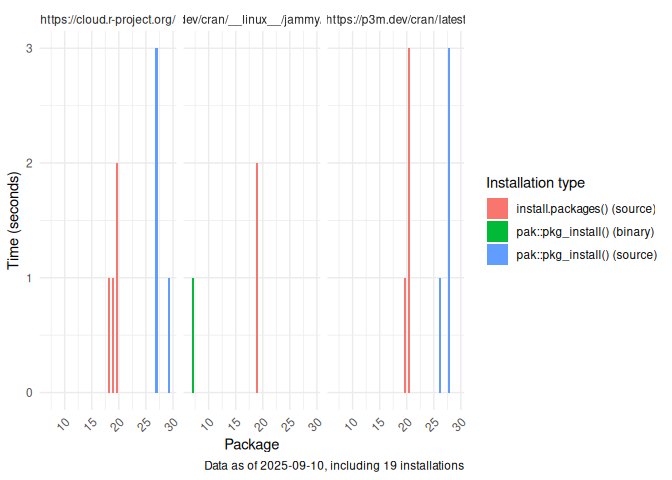
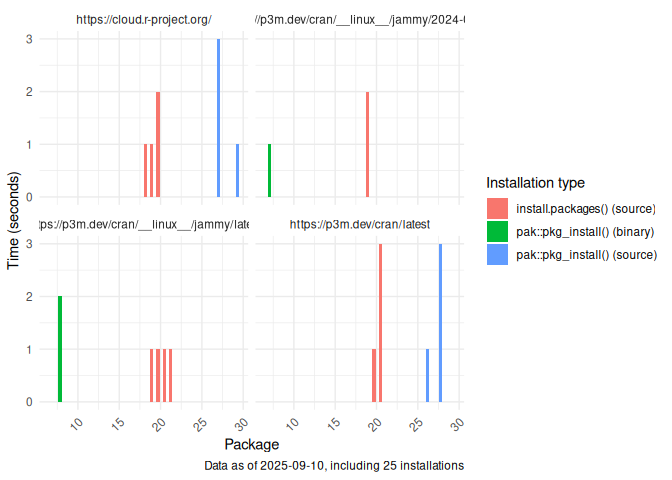
Add package installation summary

diff --git a/README.md b/README.md
@@ -15,21 +15,21 @@ and saves the output as csv files under [data](./data).
 
 The following table shows the distribution of the installations so far:
 
-|                                                 | binary |
-|:------------------------------------------------|-------:|
-| https://cloud.r-project.org/                    |     24 |
-| https://p3m.dev/cran/**linux**/jammy/2024-03-31 |      6 |
-| https://p3m.dev/cran/**linux**/jammy/latest     |     12 |
-| https://p3m.dev/cran/latest                     |     24 |
+|                                                 | binary | source |
+|:------------------------------------------------|-------:|-------:|
+| https://cloud.r-project.org/                    |      0 |      4 |
+| https://p3m.dev/cran/**linux**/jammy/2024-03-31 |      1 |      0 |
+| https://p3m.dev/cran/**linux**/jammy/latest     |      2 |      0 |
+| https://p3m.dev/cran/latest                     |      0 |      4 |
 
 Using pak::pkg_install()
 
 |                                                 | source |
 |:------------------------------------------------|-------:|
-| https://cloud.r-project.org/                    |     24 |
-| https://p3m.dev/cran/**linux**/jammy/2024-03-31 |     12 |
-| https://p3m.dev/cran/**linux**/jammy/latest     |     24 |
-| https://p3m.dev/cran/latest                     |     24 |
+| https://cloud.r-project.org/                    |      4 |
+| https://p3m.dev/cran/**linux**/jammy/2024-03-31 |      2 |
+| https://p3m.dev/cran/**linux**/jammy/latest     |      4 |
+| https://p3m.dev/cran/latest                     |      4 |
 
 Using install.packages()
 
